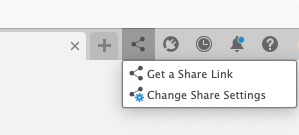
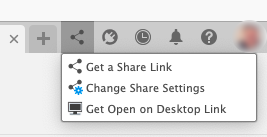
Add open on desktop command. remove open on web.

diff --git a/commands/shareOpenDesktop/entry.py b/commands/shareOpenDesktop/entry.py
@@ -1,5 +1,6 @@
 import adsk.core, adsk.fusion
 import os, traceback
+from urllib.parse import quote
 from ...lib import fusionAddInUtils as futil
 from ... import config
 
@@ -7,9 +8,9 @@ app = adsk.core.Application.get()
 ui = app.userInterface
 
 # Specify the command identity information.
-CMD_ID = "cmd_shareDocument"
-CMD_NAME = "Get a Share Link"
-CMD_Description = "Share active Document and copy the link to the clipboard."
+CMD_ID = "cmd_shareOpenDesktop"
+CMD_NAME = "Get Open on Desktop Link"
+CMD_Description = "Get a link on the clipboard for the active document that can be shared with your team to directly open the document for edit in their Fusion desktop client."
 
 # Specify that the command will be promoted to the panel.
 IS_PROMOTED = False
@@ -54,7 +55,7 @@ def start():
         dropDown = qat.controls.itemById("shareDropMenu")
 
     # Add a button to toggle the visibility to the end of the panel.
-    control = dropDown.controls.addCommand(cmd_def, "", False)
+    control = dropDown.controls.addCommand(cmd_def, "cmd_shareSettings", True)
     # control.isPromoted = True
 
 
@@ -102,104 +103,48 @@ def command_execute(args: adsk.core.CommandEventArgs):
     # General logging for debug.
     futil.log(f"{CMD_NAME} Command Execute Event")
 
-    # ******************************** Your code here ********************************
-
-    shareCmdDef = ui.commandDefinitions.itemById("SimpleSharingPublicLinkCommand")
-    isShareAllowed = shareCmdDef.controlDefinition.isEnabled
-
     if not app.activeDocument.isSaved:
         ui.messageBox(
-            "Can not share an unsaved document\nPlease Save the Document.",
-            "Share Document",
-            0,
-            2,
-        )
-        return
-
-    if not isShareAllowed:
-        permLink = app.activeDocument.designDataFile.fusionWebURL
-        futil.clipText(permLink)
-        ui.messageBox(
-            f"Sharing is not allowed. Please check if your Team Hub Administrator has disabled sharing.<br><br>A private perma-link was copied to clipboard instead. This link will only allow Team hub members access to the document details page.",
-            "Share Document",
+            "Can not get <b>Open on Desktop</b> link for an unsaved document\nPlease Save the Document.",
+            "Get Open on Desktop Link",
             0,
             2,
         )
         return
 
     try:
-        shareState = app.activeDocument.dataFile.sharedLink
-
-        # check share settings
-        if shareState.isShared == True:
-            wasShared = True
-        else:
-            wasShared = False
-
         # show a progress bar
         progressBar = ui.progressBar
+        progressBar.showBusy("Generating Share Link"),
 
-        # Check if the document is shared
-        if shareState.isShared == False:
-            # creating a link can take a few seconds so show a busy bar
-            progressBar.showBusy("Generating Share Link"),
+        # Generate the share link
+        shareLink = f"fusion360://lineageUrn="
+        shareLink += quote(app.activeDocument.dataFile.id)
 
-            shareState.isShared = True  # Share the document
+        shareLink += "&hubUrl="
+        galilleoUrl = app.activeDocument.dataFile.parentProject.parentHub.fusionWebURL
+        stripGalilleo = galilleoUrl.replace(" ", "").rstrip(galilleoUrl[-3:]).upper()
+        shareLink += quote(stripGalilleo)
 
-        # Get the shared link
-        shareLink = shareState.linkURL
+        shareLink += "&documentName="
+        shareLink += quote(app.activeDocument.name)
 
-        if shareLink == "":
-            app.log(f"Failed to get a link to the document")
-            ui.messageBox(
-                f"Failed to share the document.",
-                "Share Document",
-                1,
-                2,
-            )
-            exit(0)
+        # output the URL to the text commands
+        futil.log(
+            f"{CMD_NAME} Open on Desktop Document Link: {shareLink} was added to the clipboard."
+        )
 
         # Copy the shared link to the clipboard
         futil.clipText(shareLink)
 
-        if wasShared == True:
-            resultString = f"Document is already shared <br>"
-        else:
-            resultString = f"<b>Document is now shared.</b> <br>"
-
-        resultString += f"A <b>Share link</b> for {app.activeDocument.name}: <a href=''{shareLink}''>{shareLink}</a> was added to the clipboard.<br><br>Note:"
-
-        if shareState.isDownloadAllowed == False:
-            noDownload = True
-        else:
-            noDownload = False
-
-        if shareState.isPasswordRequired == True:
-            passwordProtected = True
-        else:
-            passwordProtected = False
-
-        if noDownload == True:
-            resultString += "<br>Downloading from the link is not turned on. To enable downloading, go to <b>Share Settings</b><br>"
-        else:
-            resultString += (
-                "<br>Downloading the document from the share link is allowed.<br>"
-            )
-
-        if passwordProtected == True:
-            resultString += "<br>The share is password protected.<br>"
-        else:
-            resultString += f"<br>The share does not have a password. To set a password, go to <b>Share Settings</b><br>"
+        resultString = f"An <b>Open on Desktop</b> link for {app.activeDocument.name} was added to the clipboard."
 
         if app.activeProduct.productType == "DesignProductType":
             rootComp = app.activeProduct.rootComponent
 
             if has_external_child_reference(rootComp):
                 futil.log(f"{CMD_NAME} Document has external references")
-                if noDownload == True:
-                    resultString += f"<br>This design has external references. Sharing this design will allow the referenced designs to be viewed but not downloaded. <br>"
-                else:
-                    resultString += f"<br>This design has external references. Sharing this design will also share the referenced designs. To avoid sharing referenced designs, either save this design as a new document and break link or disable download.<br>"
+                resultString += f"<br><br>Note:<br>This design has external references. Sharing this design will may share the referenced designs depending on the team member's permissions."
             else:
                 futil.log(f"{CMD_NAME} Document has no external references")
 

diff --git a/lib/fusionAddInUtils/general_utils.py b/lib/fusionAddInUtils/general_utils.py
@@ -19,21 +19,26 @@ ui = app.userInterface
 # Attempt to read DEBUG flag from parent config.
 try:
     from ... import config
+
     DEBUG = config.DEBUG
 except:
     DEBUG = False
 
 
-def log(message: str, level: adsk.core.LogLevels = adsk.core.LogLevels.InfoLogLevel, force_console: bool = False):
+def log(
+    message: str,
+    level: adsk.core.LogLevels = adsk.core.LogLevels.InfoLogLevel,
+    force_console: bool = False,
+):
     """Utility function to easily handle logging in your app.
 
     Arguments:
     message -- The message to log.
     level -- The logging severity level.
-    force_console -- Forces the message to be written to the Text Command window. 
-    """    
+    force_console -- Forces the message to be written to the Text Command window.
+    """
     # Always print to console, only seen through IDE.
-    print(message)  
+    print(message)
 
     # Log all errors to Fusion log file.
     if level == adsk.core.LogLevels.ErrorLogLevel:
@@ -46,6 +51,19 @@ def log(message: str, level: adsk.core.LogLevels = adsk.core.LogLevels.InfoLogLe
         app.log(message, level, log_type)
 
 
+def clipText(linkText):
+    """Utility function to copy text to the clipboard.
+
+    Augments:
+    linkText -- string to copy to system clipboard.
+    """
+    if os.name == "nt":
+        os.system(f"echo {linkText.strip()} | clip")
+    else:
+        os.system(f'echo "{linkText.strip()}" | pbcopy')
+    app.log(f"link: {linkText} was added to clipboard")
+
+
 def handle_error(name: str, show_message_box: bool = False):
     """Utility function to simplify error handling.
 
@@ -53,12 +71,12 @@ def handle_error(name: str, show_message_box: bool = False):
     name -- A name used to label the error.
     show_message_box -- Indicates if the error should be shown in the message box.
                         If False, it will only be shown in the Text Command window
-                        and logged to the log file.                        
-    """    
+                        and logged to the log file.
+    """
 
-    log('===== Error =====', adsk.core.LogLevels.ErrorLogLevel)
-    log(f'{name}\n{traceback.format_exc()}', adsk.core.LogLevels.ErrorLogLevel)
+    log("===== Error =====", adsk.core.LogLevels.ErrorLogLevel)
+    log(f"{name}\n{traceback.format_exc()}", adsk.core.LogLevels.ErrorLogLevel)
 
     # If desired you could show an error as a message box.
     if show_message_box:
-        ui.messageBox(f'{name}\n{traceback.format_exc()}')
+        ui.messageBox(f"{name}\n{traceback.format_exc()}")

diff --git a/commands/__init__.py b/commands/__init__.py
@@ -20,7 +20,9 @@ from .refresh import entry as refresh
 from .relateddata import entry as relateddata
 from .shareDocument import entry as shareDocument
 from .shareSettings import entry as shareSettings
-from .shareOpenOnWeb import entry as shareOpenOnWeb
+from .shareOpenDesktop import entry as shareOpenDesktop
+
+# from .shareOpenOnWeb import entry as shareOpenOnWeb
 from .sketchfix import entry as sketchfix
 from .sketchunderconstrained import entry as sketchunderconstrained
 from .tabToolbar import entry as tabToolbar
@@ -46,7 +48,8 @@ commands = [
     relateddata,
     shareDocument,
     shareSettings,
-    shareOpenOnWeb,
+    shareOpenDesktop,
+    # shareOpenOnWeb,
     sketchfix,
     sketchunderconstrained,
     tabToolbar,

diff --git a/docs/Share Menu.md b/docs/Share Menu.md
@@ -19,8 +19,6 @@ The share message will display additional information as needed:
 
 **Change Share Settings** allows you to adjust the active documents share settings from the same menu.
 
-**Open on Web** opens the active document's details page in Fusion Team web client.
-
 Settings control:
 
 - Turn sharing on and off.
@@ -29,9 +27,11 @@ Settings control:
 
 If download is turned off, the recipient of the link will only be able to view the document.
 
-**Share Open on Web**
+**Get Open on Desktop link**
 
-Open the active document's details page in Fusion Team web client.
+Within your team you may want different links for different collaborators. Share links work well for external members to view a design and for extended team members to access a document in Fusion's web client. Collaborating with authors and editors on documents is improved with the **Get Open on Desktop Link** command. When sent to other Fusion desktop client users, these links directly open the document for edit in the Desktop Client.
+
+The use of these links requires that the team member be a member of the hub and have permission to the document.
 
 ## Access
 
